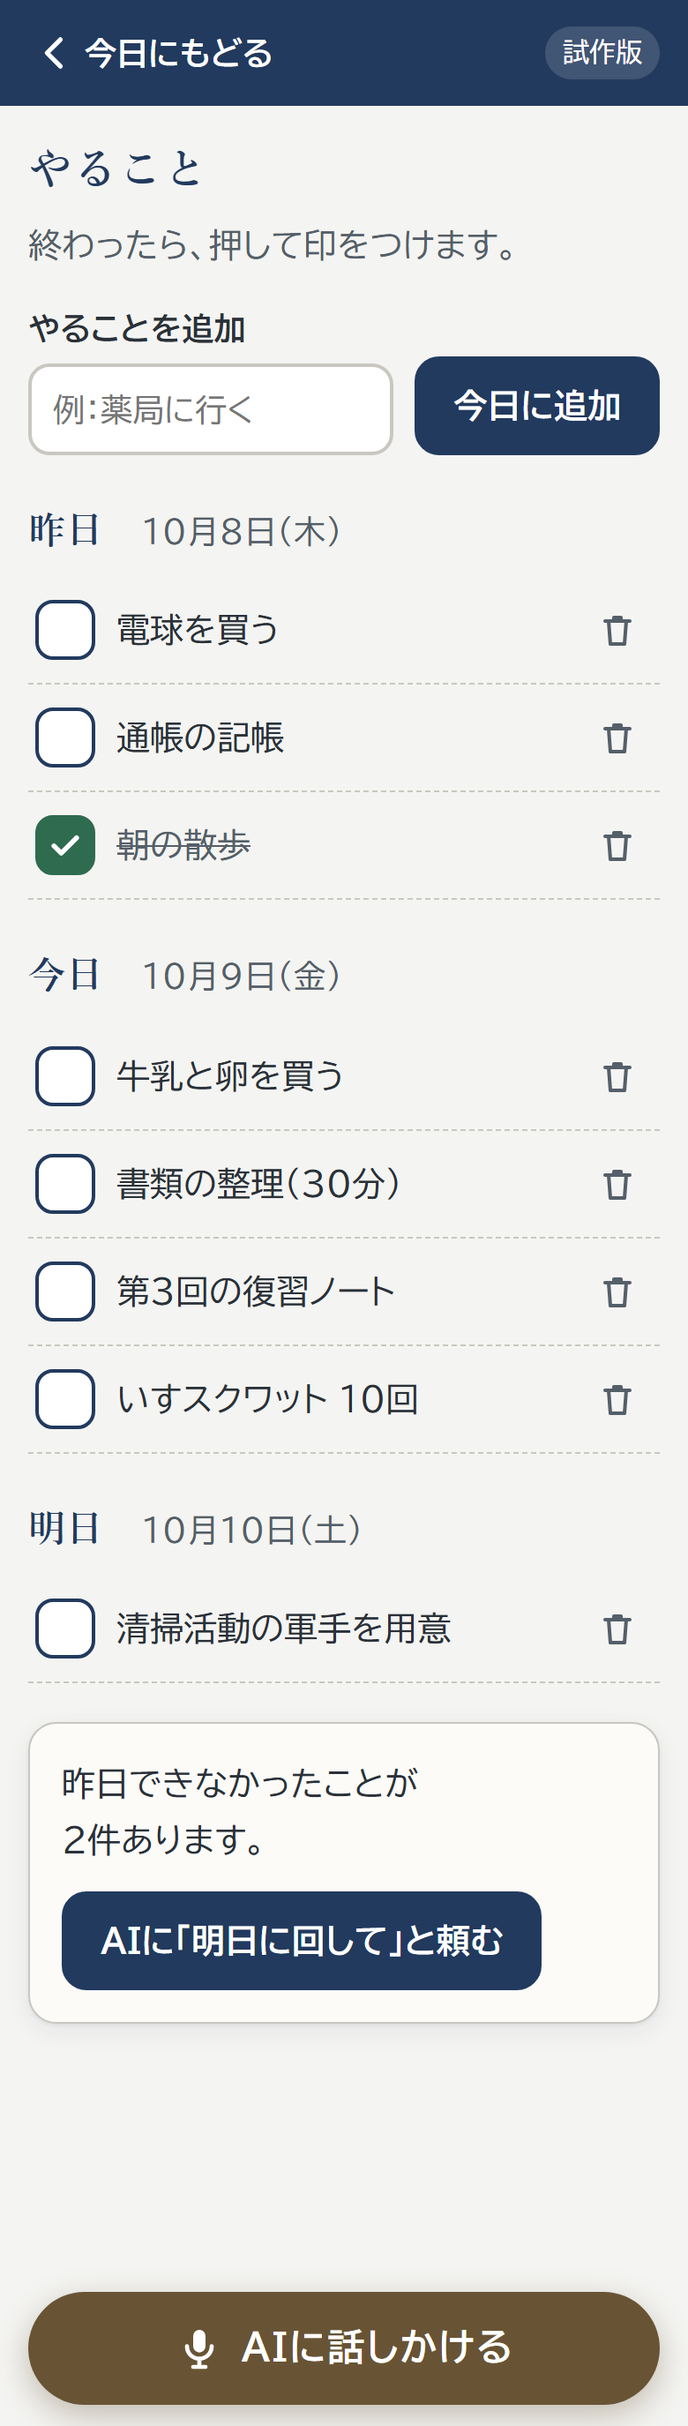
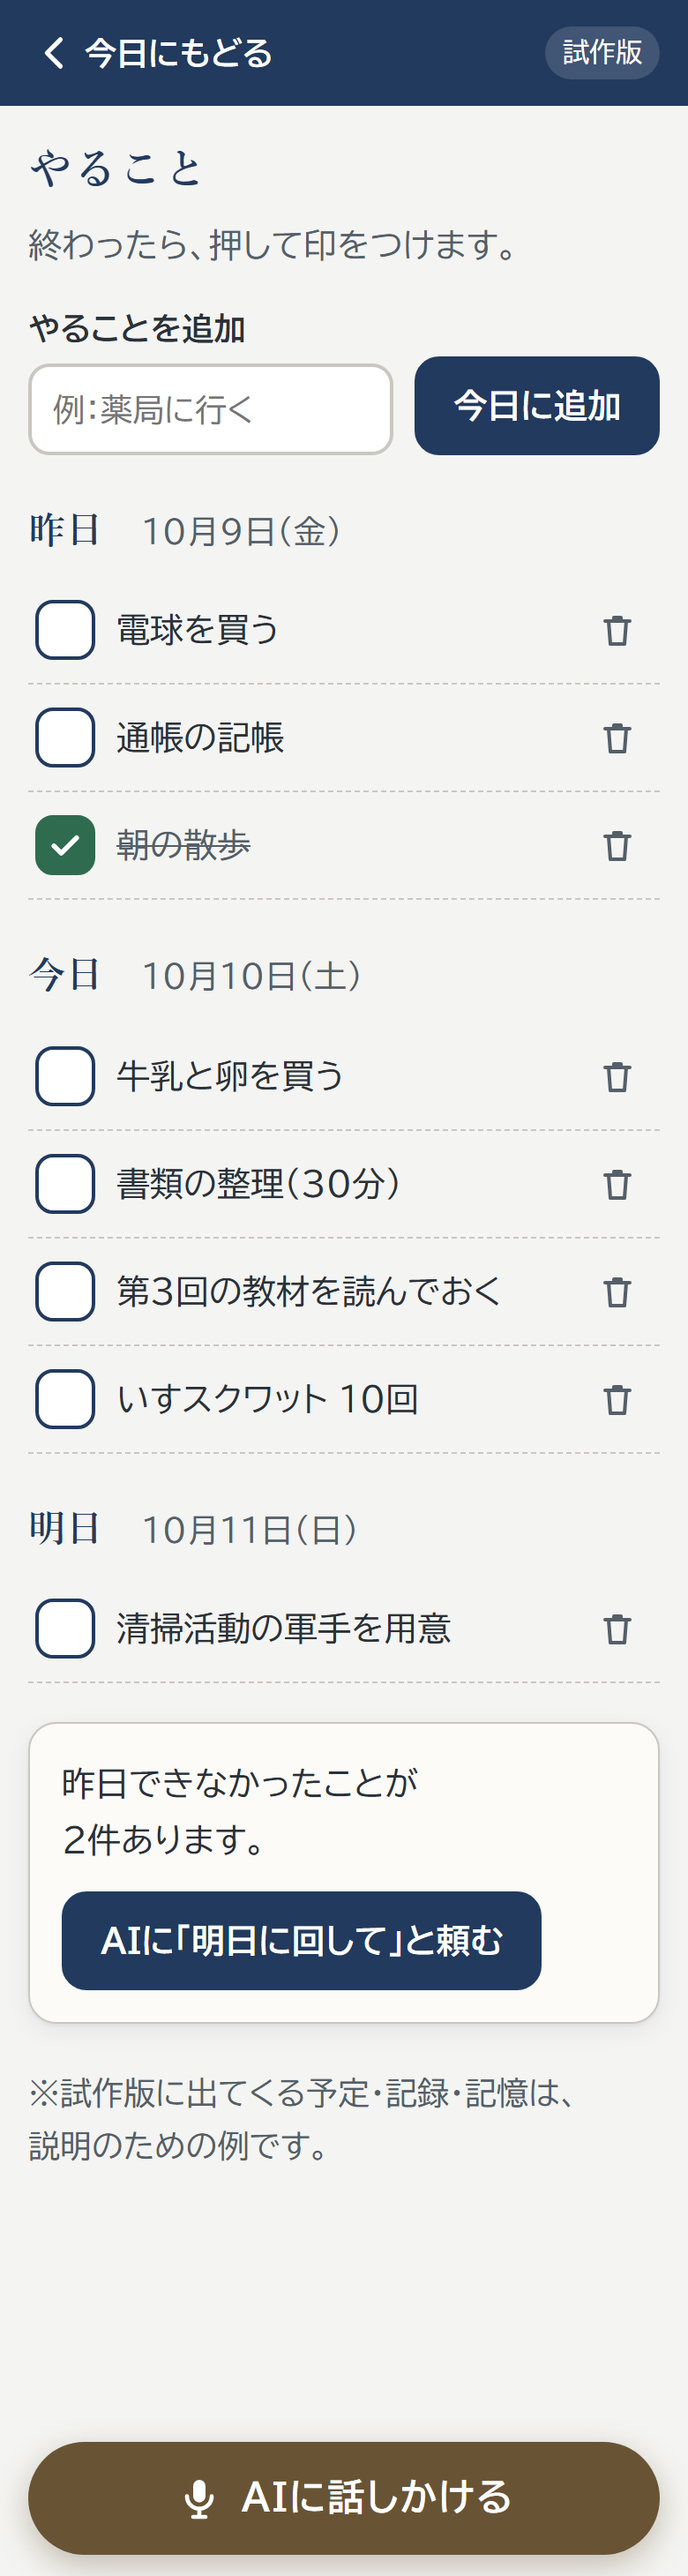
v0.2 審査の指摘を反映：受講数をホームと大学でそろえる／歩数の平均と最少日を同じ物差しに／登録を外した会を勧めない／例である旨を全画面に／足していない機能は空から

diff --git a/app.js b/app.js
@@ -44,12 +44,13 @@
   function lec(id, title, src, points, terms, quiz) {
     return { id: id, title: title, src: src, done: false, points: points, terms: terms || [], quiz: quiz || null };
   }
+  function doneLec(l) { l.done = true; return l; }
   function seedUniv() {
     return [
       { id: 'f1', name: '健康長寿学部', desc: '食事・栄養、運動、睡眠、健康習慣を体系的に学ぶ', courses: [
         { id: 'c1', name: '予防栄養学の基礎', plan: '全8回・1回45分', lectures: [
-          lec('l1', '第1回　食事と体のつながり', 'YouTube（大学の公開講座の例）', ['毎日の食事は、体をつくる材料になる', '一度に変えるより、続けられる小さな工夫が大切とされている', '気になる体の変化は、医師に相談する'], [['栄養素', '食べ物にふくまれ、体の働きを助ける成分']], { q: '食事を見直すとき、よいとされる進め方はどれ？', choices: ['一度に全部を変える', '続けられる小さな工夫から始める'], answer: 1 }),
-          lec('l2', '第2回　たんぱく質と筋肉', 'Podcast（栄養の専門家の解説の例）', ['筋肉の材料のひとつが、たんぱく質', '食事と体を動かすことを組み合わせるのが大切とされている'], [['たんぱく質', '肉・魚・卵・大豆などに多い栄養素']], { q: '筋肉の材料のひとつはどれ？', choices: ['たんぱく質', '食物繊維'], answer: 0 }),
+          doneLec(lec('l1', '第1回　食事と体のつながり', 'YouTube（大学の公開講座の例）', ['毎日の食事は、体をつくる材料になる', '一度に変えるより、続けられる小さな工夫が大切とされている', '気になる体の変化は、医師に相談する'], [['栄養素', '食べ物にふくまれ、体の働きを助ける成分']], { q: '食事を見直すとき、よいとされる進め方はどれ？', choices: ['一度に全部を変える', '続けられる小さな工夫から始める'], answer: 1 })),
+          doneLec(lec('l2', '第2回　たんぱく質と筋肉', 'Podcast（栄養の専門家の解説の例）', ['筋肉の材料のひとつが、たんぱく質', '食事と体を動かすことを組み合わせるのが大切とされている'], [['たんぱく質', '肉・魚・卵・大豆などに多い栄養素']], { q: '筋肉の材料のひとつはどれ？', choices: ['たんぱく質', '食物繊維'], answer: 0 })),
           lec('l3', '第3回　食物繊維と腸', 'YouTube（公的機関の解説動画の例）', ['野菜・海藻・きのこなどに多い', '水分も一緒にとることが大切とされている'], [['食物繊維', '体で消化されにくい成分。おなかの調子を整える働きがあるとされる']], null)
         ]},
         { id: 'c2', name: '無理なく続ける運動', plan: '全6回・1回30分', lectures: [
@@ -63,7 +64,7 @@
       ]},
       { id: 'f3', name: '資産形成・経済学部', desc: '資産運用、経済、金融市場、リスク、税のしくみを理解する', courses: [
         { id: 'c4', name: 'はじめての資産運用', plan: '全6回・1回30分', lectures: [
-          lec('l6', '第1回　新NISAのしくみ', 'YouTube（金融機関の解説動画の例）', ['投資で得た利益に、税金がかからない国の制度', '2024年から新しい制度になった', '投資するかどうかは、自分で決める'], [['新NISA', '少額投資非課税制度。2024年から始まった新しい形']], null)
+          lec('l6', '第1回　新NISAのしくみ', 'YouTube（金融機関の解説動画の例）', ['決められた投資枠の範囲内で、投資で得た利益に税金がかからない国の制度', '2024年から新しい制度になった', '投資するかどうかは、自分で決める'], [['新NISA', '少額投資非課税制度。2024年から始まった新しい形']], null)
         ]}
       ]},
       { id: 'f4', name: '人生後半デザイン学部', desc: '生きがい、心理学、コミュニティ、社会参加、趣味を探究する', courses: [
@@ -93,7 +94,7 @@
         { id: 't3', date: key(YESTERDAY), title: '朝の散歩', done: true },
         { id: 't4', date: key(TODAY), title: '牛乳と卵を買う', done: false },
         { id: 't5', date: key(TODAY), title: '書類の整理（30分）', done: false },
-        { id: 't6', date: key(TODAY), title: '第3回の復習ノート', done: false },
+        { id: 't6', date: key(TODAY), title: '第3回の教材を読んでおく', done: false },
         { id: 't7', date: key(TODAY), title: 'いすスクワット 10回', done: false },
         { id: 't8', date: key(TOMORROW), title: '清掃活動の軍手を用意', done: false }
       ],
@@ -111,12 +112,12 @@
       health: [],
       diary: [
         { id: 'd1', date: daysAgo(3), text: '朝の散歩で、川沿いの道に新しいベンチができていた。少し座って、季節の変わり目を感じた。' },
-        { id: 'd2', date: daysAgo(2), text: '読書会で、人生の後半に新しい役割を持つ話になった。自分にできることを考えたい。' },
+        { id: 'd2', date: daysAgo(2), text: '公民館の講座で、人生の後半に新しい役割を持つ話を聞いた。自分にできることを考えたい。' },
         { id: 'd3', date: daysAgo(1), text: '孫から電話。運動会の練習をがんばっているらしい。散歩の距離を少しのばした。' }
       ],
       photos: [
         { id: 'p1', date: daysAgo(3), memo: '川沿いの散歩道', art: 'walk' },
-        { id: 'p2', date: daysAgo(2), memo: '図書館の読書会', art: 'book' },
+        { id: 'p2', date: daysAgo(2), memo: '公民館の講座のテキスト', art: 'book' },
         { id: 'p3', date: daysAgo(6), memo: '家庭菜園のミニトマト', art: 'garden' }
       ],
       sources: [
@@ -126,15 +127,8 @@
         { id: 's4', type: 'youtube', name: '栄養学の公開講座チャンネル', note: '大学の教材候補' },
         { id: 's5', type: 'podcast', name: '人生後半の学び番組', note: '散歩しながら聞く' }
       ],
-      invest: [
-        { id: 'i1', theme: '新NISA', note: 'しくみを理解したい' },
-        { id: 'i2', theme: '為替のニュース', note: '円安・円高が暮らしにどう関わるか' }
-      ],
-      life: [
-        { id: 'y1', kind: '価値観', text: '人の役に立っていると感じられることが、いちばんの張り合い' },
-        { id: 'y2', kind: '経験', text: '長く会社で働き、人を育てる役割をしてきた' },
-        { id: 'y3', kind: '目標', text: '会社の外に、自分の役割と居場所をつくる' }
-      ],
+      invest: [],
+      life: [],
       univ: seedUniv(),
       chat: []
     };
@@ -177,8 +171,9 @@
   function tasksOn(k) { return state.tasks.filter(function (x) { return x.date === k; }); }
   function remembers(re) { return state.memories.some(function (m) { return re.test(m.text); }); }
   function healthOf(kind) { return state.health.filter(function (h) { return h.kind === kind; }).sort(function (a, b) { return a.date < b.date ? -1 : 1; }); }
+  // 今日はまだ途中なので、きのうまでの6日で数える
   function avgSteps() {
-    var from = daysAgo(6), xs = healthOf('steps').filter(function (h) { return h.date >= from; });
+    var from = daysAgo(6), to = daysAgo(1), xs = healthOf('steps').filter(function (h) { return h.date >= from && h.date <= to; });
     if (!xs.length) return 0;
     return Math.round(xs.reduce(function (a, h) { return a + +h.value; }, 0) / xs.length);
   }
@@ -295,7 +290,7 @@
       case 'exercise':
         if (state.events.some(function (e) { return e.walkClub; })) return { kind: 'text', html: '来週土曜の「朝歩こう会」は、もう予定に入っています。<a href="#/schedule">予定を見る</a>' };
         supersede('exercise');
-        return { kind: 'exercise', id: nid('x'), status: 'pending', avg: avgSteps(), thirty: remembers(/30分/) };
+        return { kind: 'exercise', id: nid('x'), status: 'pending', avg: avgSteps(), thirty: remembers(/30分/), club: state.sources.some(function (s) { return /朝歩こう会/.test(s.name); }) };
       case 'faculty':
         supersede('faculty');
         var tp = topicOf(text);
@@ -308,11 +303,11 @@
       case 'diary':
         var from = daysAgo(6), ds = state.diary.filter(function (d) { return d.date >= from; });
         if (!ds.length) return { kind: 'text', html: 'この1週間の日記は、まだありません。<a href="#/diary">日記を書く</a>' };
-        var words = ['散歩', '読書会', '孫', '役割', '家族', '大学', '運動'].filter(function (w) { return ds.some(function (d) { return d.text.indexOf(w) >= 0; }); });
+        var words = ['散歩', '講座', '孫', '役割', '家族', '大学', '運動'].filter(function (w) { return ds.some(function (d) { return d.text.indexOf(w) >= 0; }); });
         return { kind: 'text', html: 'この1週間の日記は <b>' + ds.length + '件</b> です。よく出てくる言葉は「' + esc(words.slice(0, 3).join('」「') || 'なし') + '」でした。<br>' +
-          (words.indexOf('役割') >= 0 ? '読書会のあとに「自分にできることを考えたい」と書かれていますね。人生後半デザイン学部の「役割と居場所」の講義が参考になりそうです。<br><a href="#/lecture/f4/c5/l7">講義を開く</a>' : '<a href="#/diary">日記を見る</a>') };
+          (words.indexOf('役割') >= 0 ? '公民館の講座のあとに「自分にできることを考えたい」と書かれていますね。人生後半デザイン学部の「役割と居場所」の講義が参考になりそうです。<br><a href="#/lecture/f4/c5/l7">講義を開く</a>' : '<a href="#/diary">日記を見る</a>') };
       case 'invest':
-        return { kind: 'text', html: '新NISAは、投資で得た利益に税金がかからない国の制度で、2024年から新しい形になりました。<br>くわしくは、資産形成・経済学部の講義で学べます。投資するかどうかの判断は、ご自身でなさってください。<br><a href="#/lecture/f3/c4/l6">講義を開く</a>' };
+        return { kind: 'text', html: '新NISAは、年間の投資枠などの範囲内で、投資で得た利益に税金がかからない国の制度です。2024年から新しい形になりました。<br>くわしくは、資産形成・経済学部の講義で学べます。投資するかどうかの判断は、ご自身でなさってください。<br><a href="#/lecture/f3/c4/l6">講義を開く</a>' };
       case 'term':
         return { kind: 'text', html: 'ことばの意味を、やさしく説明します。この試作版では「新NISAってなに？」で試せます。製品版では、わからないことばを大学の講義につなぎます。' };
       case 'thu':
@@ -359,11 +354,11 @@
       aiSays('来週の予定に <b>6件</b> 登録しました。前の日の夜に、お知らせします。<br><a href="#/schedule">予定を見る</a>');
       toast('予定に6件を登録しました'); return true;
     },
-    exercise: function () {
+    exercise: function (b) {
       if (state.events.some(function (e) { return e.walkClub; })) return false;
-      state.events.push({ id: nid('e'), date: key(nextWeek(6)), time: '9:00', title: '朝歩こう会に体験参加', ai: true, walkClub: true });
+      state.events.push({ id: nid('e'), date: key(nextWeek(6)), time: '9:00', title: b.club ? '朝歩こう会に体験参加' : '朝のウォーキング', ai: true, walkClub: true });
       state.tasks.push({ id: nid('t'), date: key(nextWeek(5)), title: '歩きやすい靴と水筒を用意', done: false, ai: true });
-      aiSays('来週土曜の「朝歩こう会」を予定に入れ、前の日のやることに「歩きやすい靴と水筒を用意」を足しました。<br><a href="#/schedule">予定を見る</a>');
+      aiSays('来週土曜の' + (b.club ? '「朝歩こう会」' : '朝のウォーキング') + 'を予定に入れ、前の日のやることに「歩きやすい靴と水筒を用意」を足しました。<br><a href="#/schedule">予定を見る</a>');
       toast('予定とやることに追加しました'); return true;
     },
     faculty: function (b) {
@@ -423,7 +418,7 @@
   function renderToday() {
     var evs = eventsOn(key(TODAY)), tks = tasksOn(key(TODAY));
     var c1 = find(find(state.univ, 'f1').courses, 'c1');
-    var doneN = Math.min(8, 2 + c1.lectures.filter(function (l) { return l.done; }).length);
+    var doneN = c1.lectures.filter(function (l) { return l.done; }).length;
     var tiles = [['#/schedule', 'cal', '予定'], ['#/tasks', 'task', 'やること'], ['#/health', 'health', '健康'], ['#/univ', 'univ', '大学'], ['#/diary', 'diary', '日記'], ['#/all', 'all', 'すべて']];
     var hint = planApproved()
       ? '来週の運動と勉強の予定が入りました。前の日の夜に、お知らせしますね。'
@@ -458,7 +453,6 @@
         '<a class="card summary" href="#/univ"><div class="summary-head"><h2>学びの進み具合</h2></div>' +
           '<p style="margin-top:8px">予防栄養学の基礎　<b>' + doneN + '</b> / 8回</p><div class="progress" role="img" aria-label="8回中' + doneN + '回"><span style="width:' + Math.round(doneN / 8 * 100) + '%"></span></div></a>' +
       '</div>' +
-      '<p class="note">※試作版に出てくる予定や記録は、説明のための例です。</p>' +
       '<div class="reset"><a class="btn quiet" href="#/data">データ管理</a></div>';
   }
 
@@ -490,15 +484,16 @@
     if (b.kind === 'exercise') {
       var rows = [];
       if (b.thirty) rows.push(['歩くのは30分くらいが続けやすい、と伺っています', '覚えていること']);
-      rows.push(['ひとりより仲間と一緒のほうが続けやすいので、会への参加を提案します', 'AIの提案']);
+      if (b.club) rows.push(['ひとりより仲間と一緒のほうが続けやすいので、会への参加を提案します', 'AIの提案']);
       return '<div class="bubble wide" data-testid="exercise-card">' +
         '<p>' + NAME + 'さんの記録と関心をまたいで、合いそうなものを探しました。</p>' +
         '<div class="plan"><ul>' +
-          '<li><span class="d">健康の記録</span><span>この1週間の歩数は、1日平均 <b>' + Number(b.avg).toLocaleString('ja-JP') + '歩</b> でした</span></li>' +
-          '<li><span class="d">関心情報（コミュニティ）</span><span>登録している「朝歩こう会」が、毎週土曜 9:00 に公園で集まっています</span></li>' +
+          '<li><span class="d">健康の記録</span><span>きのうまでの6日間の歩数は、1日平均 <b>' + Number(b.avg).toLocaleString('ja-JP') + '歩</b> でした</span></li>' +
+          (b.club ? '<li><span class="d">関心情報（コミュニティ）</span><span>登録している「朝歩こう会」が、毎週土曜 9:00 に公園で集まっています</span></li>'
+                  : '<li><span class="d">関心情報（コミュニティ）</span><span>地域の会は、まだ登録されていません。<a href="#/feeds">関心情報</a>に登録すると、ここで探します</span></li>') +
           '<li><span class="d">大学</span><span>健康長寿学部に「歩くことから始める」の講義があります<br><a href="#/lecture/f1/c2/l4">講義を開く</a></span></li>' +
         '</ul></div>' + why(rows) +
-        '<p style="margin-top:12px"><b>' + esc(label(nextWeek(6))) + ' 9:00</b>　朝歩こう会に体験参加して、前の日に「歩きやすい靴と水筒を用意」をやることに入れましょうか？</p>' +
+        '<p style="margin-top:12px"><b>' + esc(label(nextWeek(6))) + ' 9:00</b>　' + (b.club ? '朝歩こう会に体験参加して' : '朝のウォーキングをして') + '、前の日に「歩きやすい靴と水筒を用意」をやることに入れましょうか？</p>' +
         cardActions(b, '予定とやることに入れる') + '</div>';
     }
     if (b.kind === 'faculty') {
@@ -636,7 +631,7 @@
     var out = [], lab = [];
     for (var i = n - 1; i >= 0; i--) {
       var k = daysAgo(i), x = healthOf(kind).filter(function (h) { return h.date === k; }).pop();
-      out.push(x ? +x.value : 0); lab.push(md(addDays(TODAY, -i)));
+      out.push(x ? +x.value : 0); lab.push(i === 0 ? '今日' : md(addDays(TODAY, -i)));
     }
     return [out, lab];
   }
@@ -655,8 +650,8 @@
         '<label>種類<select name="kind"><option value="steps">歩数（歩）</option><option value="weight">体重（kg）</option><option value="sleep">睡眠（時間）</option><option value="meal">食事（メモ）</option><option value="exercise">運動（メモ）</option></select></label>' +
         '<label>内容<input type="text" name="value" required placeholder="例：6500（歩数のとき）"></label>' +
         '<button class="btn block" type="submit">記録する</button></form>' +
-      '<section class="ai-hint"><div class="avatar" aria-hidden="true">AI</div><p>この1週間の歩数は、1日平均 <b>' + avgSteps().toLocaleString('ja-JP') + '歩</b> です。' + lowDay(st) + '予定の少ない日に、歩く時間を入れてみましょうか？</p></section>' +
-      '<h2 class="section-title">歩数（この7日）</h2><div class="card chart-card" data-testid="steps-chart">' + bars(st[0], st[1], '歩') + '</div>' +
+      '<section class="ai-hint"><div class="avatar" aria-hidden="true">AI</div><p>きのうまでの6日間の歩数は、1日平均 <b>' + avgSteps().toLocaleString('ja-JP') + '歩</b> です。' + lowDay(st) + '予定の少ない日に、歩く時間を入れてみましょうか？</p></section>' +
+      '<h2 class="section-title">歩数（この7日・今日は途中）</h2><div class="card chart-card" data-testid="steps-chart">' + bars(st[0], st[1], '歩') + '</div>' +
       '<h2 class="section-title">体重（kg）</h2><div class="card chart-card">' + (wv.length > 1 ? line(wv, wl, 'kg') : '<p class="empty">記録が2日分そろうとグラフになります</p>') + '</div>' +
       '<h2 class="section-title">睡眠（時間）</h2><div class="card chart-card">' + bars(sl[0], sl[1], '時間') + '</div>' +
       '<h2 class="section-title">食事・運動のメモ</h2><div class="card" style="padding-top:4px;padding-bottom:4px">' +

diff --git a/styles.css b/styles.css
@@ -78,7 +78,8 @@ svg { display: block; }
   background: rgba(255,255,255,.14); color: #fff; white-space: nowrap;
 }
 
-.view { padding: 20px 16px 140px; outline: none; }
+.view { padding: 20px 16px 8px; outline: none; }
+.example-note { margin: 0; padding: 16px 16px 140px; font-size: 18px; color: var(--muted); }
 
 /* ---- 下の「話しかける」 ---- */
 .talkbar {
@@ -321,6 +322,7 @@ svg { display: block; }
 .layers { margin-top: 16px; display: flex; flex-direction: column; gap: 6px; }
 .layers-title { font-family: var(--serif); font-size: 21px; font-weight: 700; color: var(--navy); text-align: center; }
 .layer { display: block; border-radius: 14px; padding: 12px 14px; text-decoration: none; }
+.layer.l3 { padding: 12px 8px; }
 .layer b { display: block; font-size: 19px; }
 .layer span { display: block; font-size: 18px; }
 .layer.l1 { background: var(--paper-warm); border: 1px solid #e3d6bd; }
@@ -329,7 +331,7 @@ svg { display: block; }
 .layer.l4 { background: var(--brass-dark); color: #fff; }
 .layer.l5 { background: var(--navy-soft); border: 1px solid #c6d0de; }
 .arrow { text-align: center; color: var(--muted); font-size: 18px; line-height: 1; }
-.modgrid { display: grid; grid-template-columns: 1fr 1fr 1fr; gap: 8px; margin-top: 10px; }
+.modgrid { display: grid; grid-template-columns: 1fr 1fr 1fr; gap: 6px; margin-top: 10px; }
 .mod { display: flex; flex-direction: column; align-items: center; justify-content: center; gap: 2px; min-height: 84px; padding: 8px 2px;
   border-radius: 12px; border: 1px solid var(--line); background: #fff; text-decoration: none; color: var(--ink); font-weight: 700; font-size: 18px; cursor: pointer; text-align: center; }
 .mod svg { width: 30px; height: 30px; color: var(--navy); }
@@ -389,7 +391,8 @@ svg { display: block; }
 .terms dd { margin: 0 0 6px 1em; }
 .quiz-result, .prof { margin-top: 10px; font-weight: 700; color: var(--ok); }
 .six-fn { margin: 0; padding-left: 1.4em; }
-.six-fn li + li { margin-top: 4px; }
+.six-fn li + li { margin-top: 6px; }
+.six-fn li b { display: block; }
 
 .photos { display: grid; grid-template-columns: 1fr 1fr; gap: 12px; margin-top: 16px; }
 .photo { margin: 0; background: var(--paper-white); border: 1px solid var(--line); border-radius: 14px; overflow: hidden; }

diff --git a/index.html b/index.html
@@ -24,6 +24,7 @@
   </header>
 
   <main id="view" class="view" tabindex="-1"></main>
+  <p class="example-note">※試作版に出てくる予定・記録・記憶は、説明のための例です。</p>
 
   <nav class="talkbar" id="talkbar">
     <a class="talk-btn" href="#/chat">
